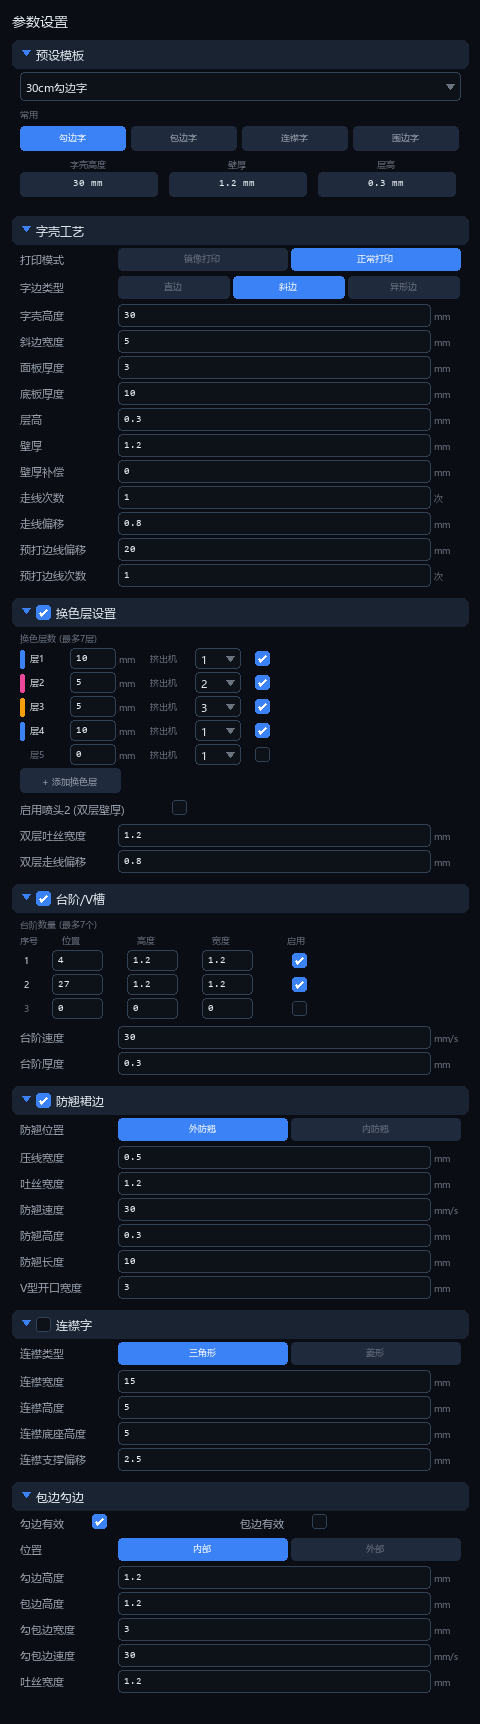
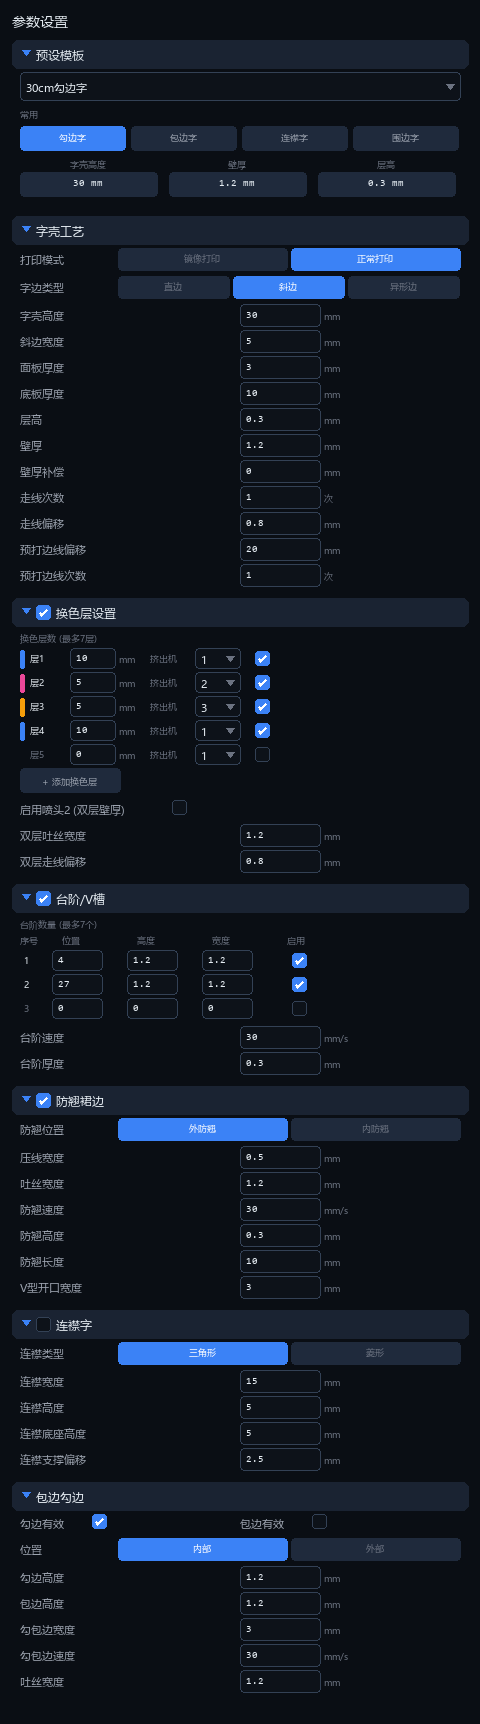
feat: 参数设置输入框缩短宽度并靠中线对齐

diff --git a/scripts/generate_ui_params.py b/scripts/generate_ui_params.py
@@ -176,11 +176,13 @@ class ParamsRenderer:
         x = self.margin + 8
         label_w = 90  # 标签区域宽度
         self.draw_text(x, self.y + 4, label, font_label, C["text_secondary"])
-        input_x = self.margin + label_w + 16
-        # 输入框延伸到右边界，留出单位空间
+        # 输入框固定宽度，靠中线对齐
         if input_w is None:
-            unit_space = 30 if unit else 8
-            input_w = self.content_w - label_w - 24 - unit_space
+            input_w = 80  # 固定较短宽度
+        # 中线位置：面板宽度的一半
+        center_x = self.margin + self.content_w // 2
+        # 输入框左边缘对齐到中线
+        input_x = center_x
         self.draw_input(input_x, self.y, input_w, 22, value, unit)
         self.y += 26
 
